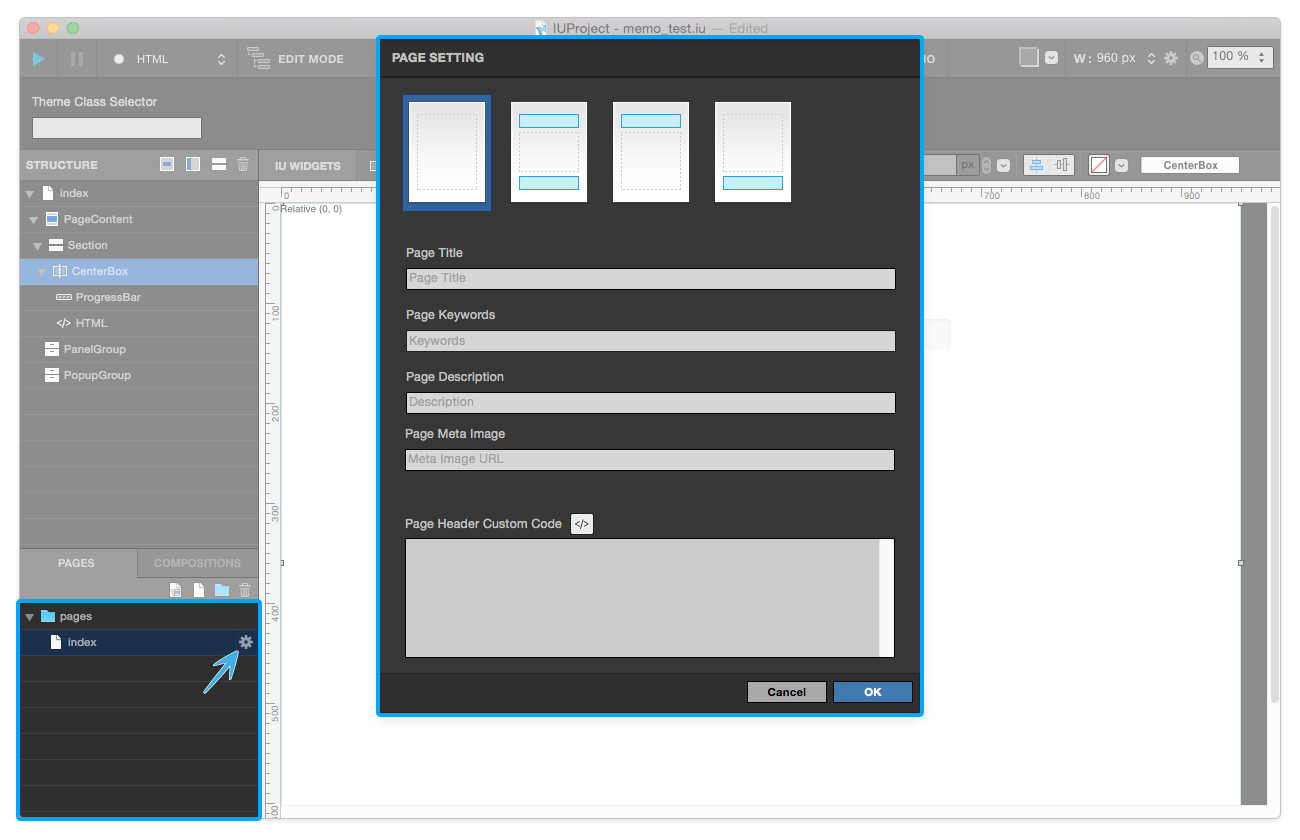
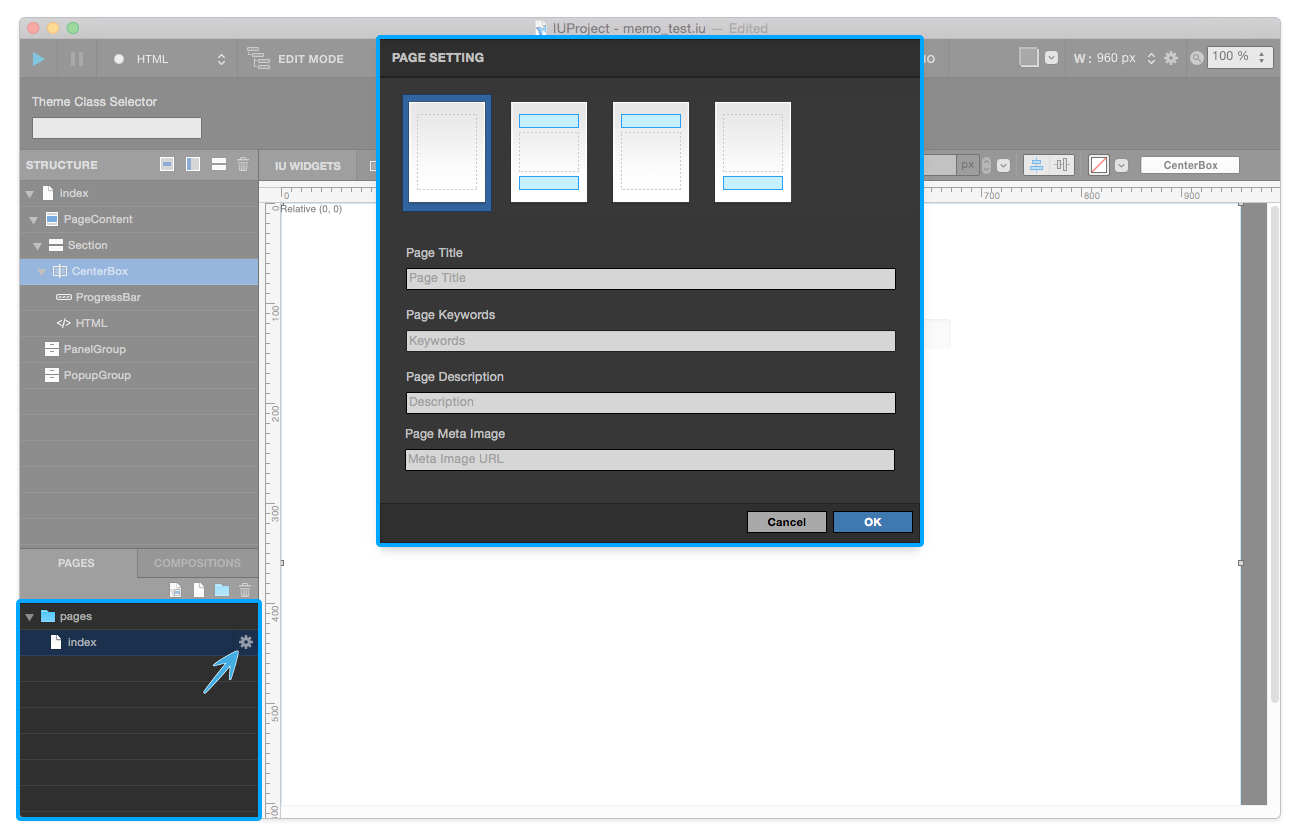
update content

Changed region(s): [[0.2769, 0.5881, 0.7077, 0.8667]]

diff --git a/basic_top_toolbar.rst b/basic_top_toolbar.rst
@@ -42,57 +42,39 @@
 
 .. image:: resource/iu_manual_top_toolbar_tab01_text.png
 
-텍스트 탭 Text Tab
---------------
-
-텍스트 탭 메뉴를 선택하면, **폰트 패밀리 / 두께 / 크기 / 컬러 / 행간 / 자간 / 제목 텍스트 / 정렬** 등을 설정할 수 있습니다.
+* ``텍스트 탭 Text Tab`` : **폰트 패밀리 / 두께 / 크기 / 컬러 / 행간 / 자간 / 제목 텍스트 / 정렬** 등을 설정할 수 있습니다.
 
 
 ----------
 
 .. image:: resource/iu_manual_top_toolbar_tab02_property.png
 
-속성 탭 Property Tab
------------------
-
-속성 탭 메뉴를 선택하면, 선택한 각 위젯의 개별 속성을 변경할 수 있습니다. 각 위젯 별로 설정 가능한 항목이 다릅니다.
+* ``속성 탭 Property Tab`` : 선택한 각 위젯의 개별 속성을 변경할 수 있습니다. 각 위젯 별로 설정 가능한 항목이 다릅니다.
 
 ----------
 
 
 .. image:: resource/iu_manual_top_toolbar_tab03_style.png
 
-스타일 탭 Style Tab
-----------------
-
-스타일 탭 메뉴를 선택하면, **라운딩 / 보더 / 박스 쉐도우 / 투명도 / 배경 이미지** 등을 설정할 수 있습니다.
+* ``스타일 탭 Style Tab`` : 선택한 위젯의 **라운딩 / 보더 / 박스 쉐도우 / 투명도 / 배경 이미지** 등을 설정할 수 있습니다.
 
 ----------
 
 .. image:: resource/iu_manual_top_toolbar_tab04_transform.png
 
-트랜스폼 탭 Transform Tab
----------------
-
-트랜스폼 텝 메뉴를 선택하면, 회전 값 Rotation 값 등을 설정하여 형태를 변형시킬 수 있습니다.
+* ``트랜스폼 탭 Transform Tab`` : 선택한 위젯의 회전 값 Rotation 값 등을 설정하여 형태를 변형시킬 수 있습니다.
 
 ----------
 
 .. image:: resource/iu_manual_top_toolbar_tab05_mouse_over.png
 
-마우스-오버 탭 Mouse-Over Tab
----------------
-
-마우스 오버 텝 메뉴를 선택하면, 마우스 오버 시 변화하는 값을 설정 할 수 있습니다.
+* ``마우스-오버 탭 Mouse-Over Tab`` : 선택한 위젯이 마우스 오버 상태일 때 변화하는 값을 설정 할 수 있습니다.
 
 ----------
 
 .. image:: resource/iu_manual_top_toolbar_tab06_backend.png
 
-백엔드 탭 Back-End Tab
--------------------
-
-백엔드 탭 메뉴를 선택하면 특정 위젯에 **변수 Variables** 를 설정할 수 있습니다. (장고 Django 프로젝트일 때만 가능합니다.) 
+* ``백엔드 탭 Back-End Tab`` : 선택한 위젯에 **변수 Variables** 를 설정할 수 있습니다. (장고 Django 프로젝트일 때만 가능합니다.) 
 
 
 

diff --git a/sheet_page.rst b/sheet_page.rst
@@ -6,16 +6,22 @@
 .. image:: resource/widget/IUPage.png
 -------------
 
-페이지 레이아웃 Page Layout
+페이지 세팅 Page Setting
 -----------------------
 
-페이지는 직접적으로 위젯 삽입할수 없습니다. 페이지의 설정 버튼을 통해, 페이지의 레이아웃을 정한 후 각각 해당하는 곳에 위젯을 삽입합니다.
+페이지에는 직접적으로 위젯을 삽입할수 없습니다. 먼저 페이지 설정 버튼을 눌러 페이지 세팅 패널을  을 통해, 페이지의 레이아웃을 정한 후 각각 해당하는 곳에 위젯을 삽입합니다.
 
+.. image:: resource/iu_manual_sheet_page_setting.png
 
 * **Empty Layout** : 빈 레이아웃 입니다.
 * **Header + Footer** : 헤더 + 페이지 컨텐트 + 푸터로 구성되어 있습니다.
 * **Header** : 헤더 + 페이지 컨텐트로 구성되어 있습니다.
 * **Footer** : 페이지 컨텐트 + 푸터로 구성되어 있습니다.
+* **페이지 타이틀 Page Title** : 현재 페이지의 타이틀을 입력합니다.
+* **페이지 키워드 Page Keyword** : 현재 페이지의 키워드를 입력합니다. (**여러 키워드** 입력 가능)
+* **페이지 설명 Page Description** : 현재 페이지의 페이지 설명을 입력합니다.
+* **페이지 메타 이미지 Page Meta Image** : 현재 페이지의 메타 이미지 경로를 입력합니다. (**URL**을 입력)
+
 
 -------------
 
